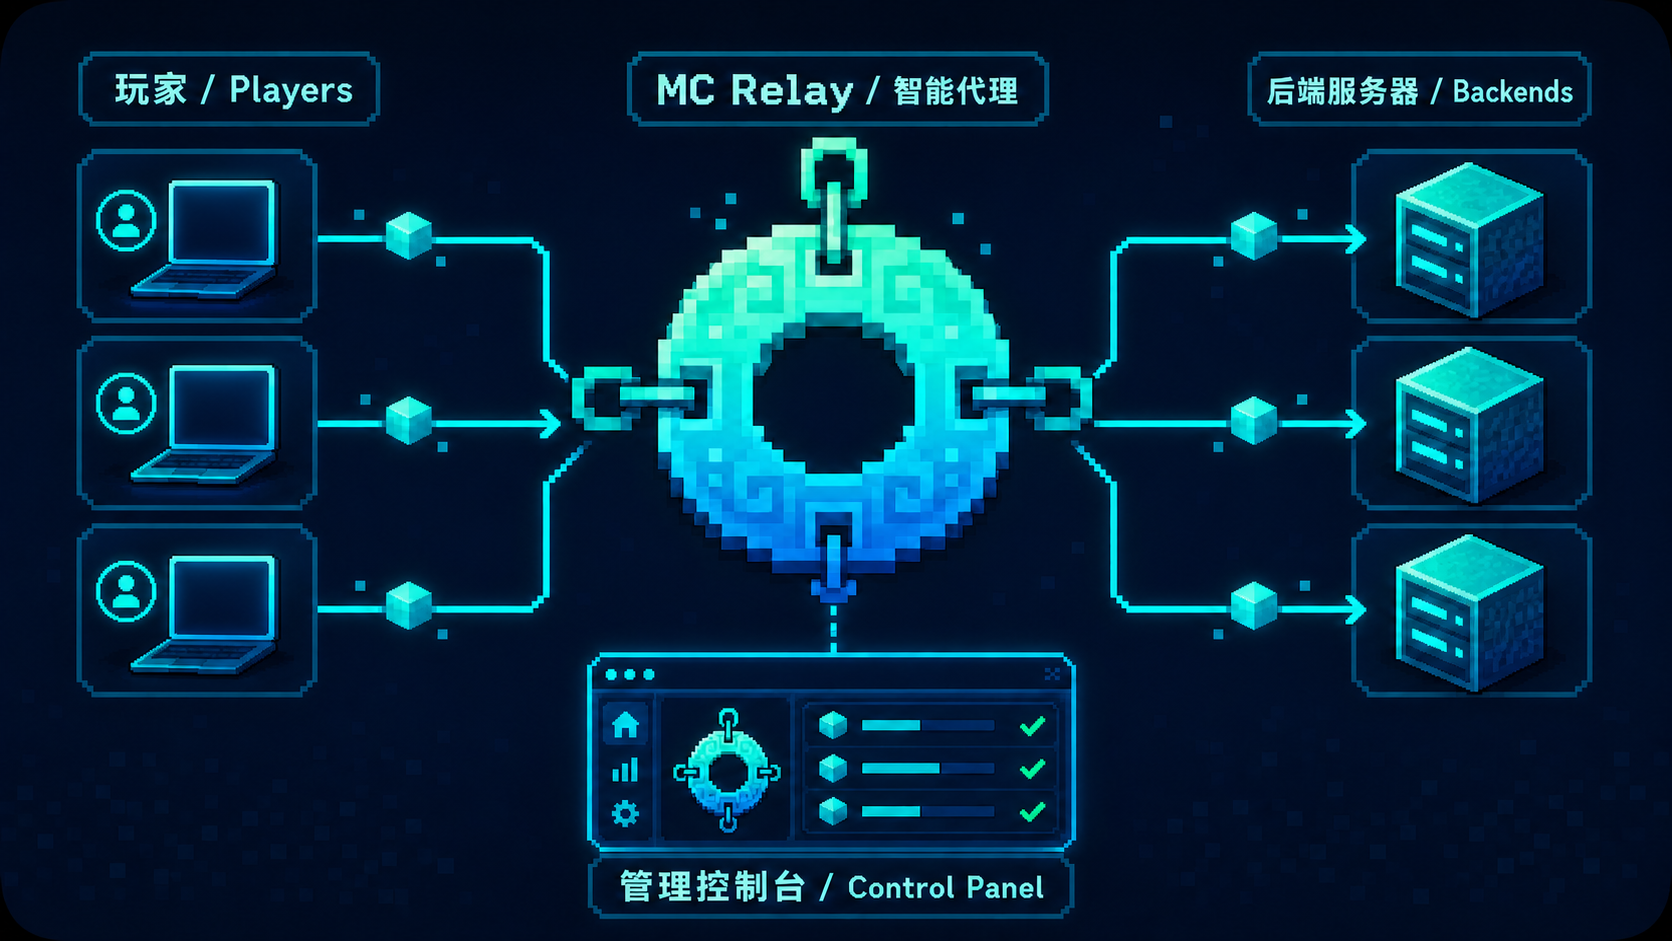
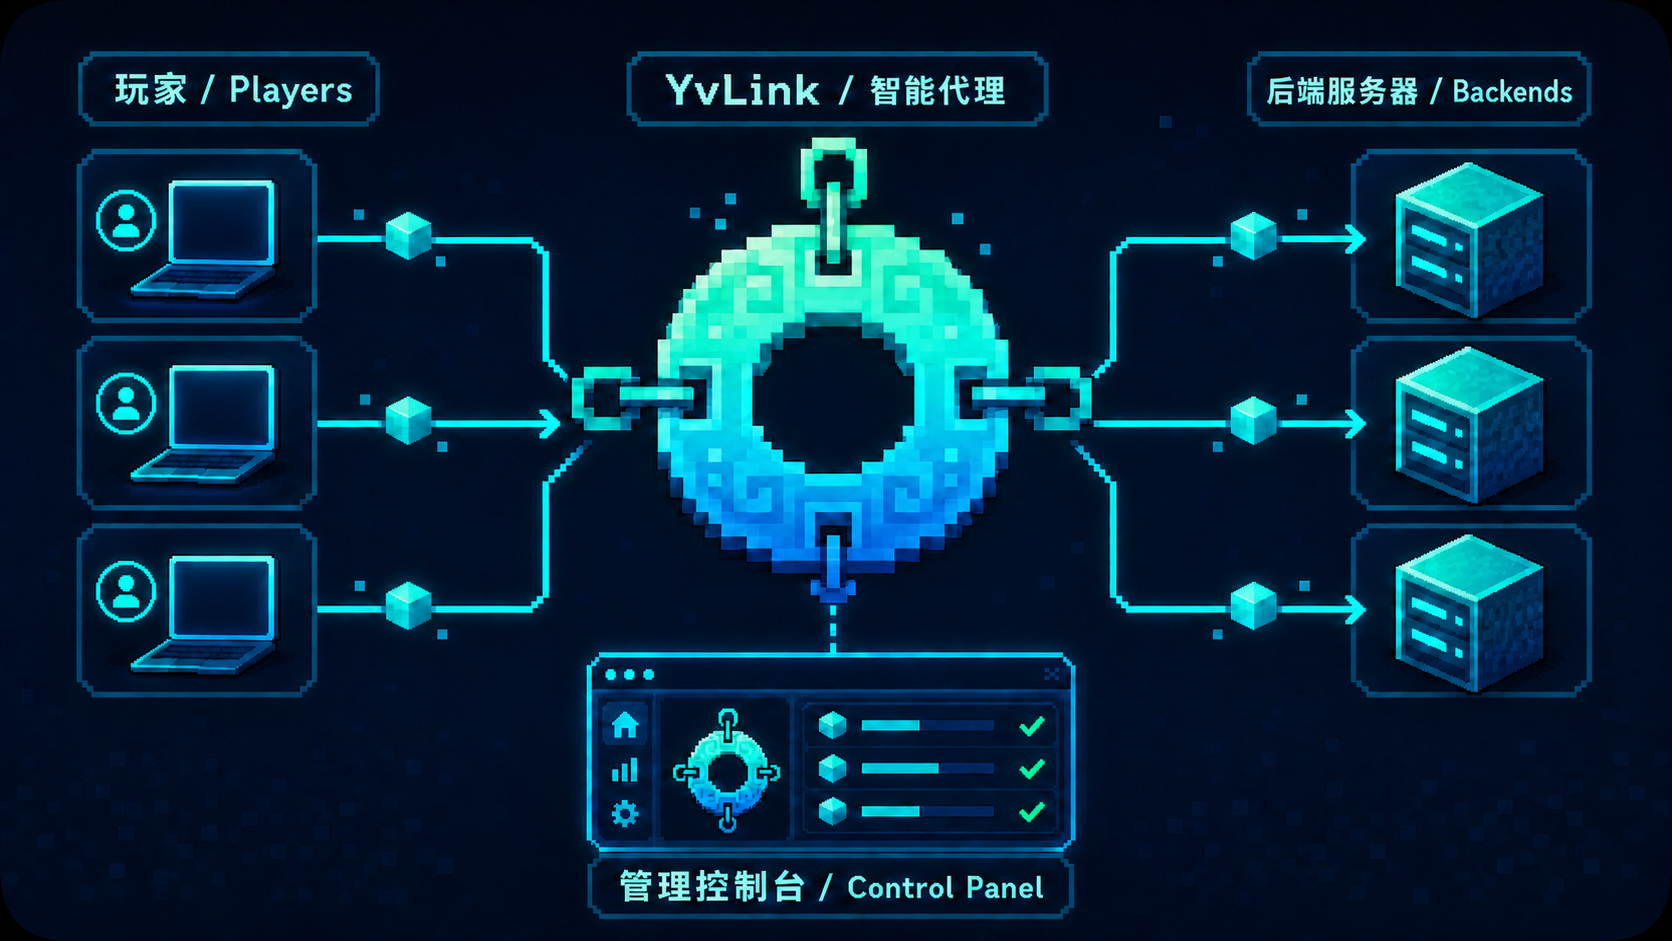
Add YvLink Pages and multi-platform builds

diff --git a/docs/api.html b/docs/api.html
@@ -4,7 +4,7 @@
   <meta charset="utf-8">
   <meta name="viewport" content="width=device-width,initial-scale=1">
   <meta name="color-scheme" content="dark">
-  <title>MC Relay API 文档</title>
+  <title>YvLink API 文档</title>
   <style>
     :root{--bg:#080b11;--panel:#101620;--line:#263142;--text:#edf3fa;--muted:#8b98aa;--green:#48d7a4;--blue:#6d8cff;--red:#f1727b}
     *{box-sizing:border-box}body{margin:0;background:var(--bg);color:var(--text);font:14px/1.65 system-ui,-apple-system,"Segoe UI",sans-serif}
@@ -24,7 +24,7 @@
 <body>
 <div class="layout">
   <aside class="side">
-    <div class="brand"><span class="mark">API</span><div><h1>MC Relay</h1><p>CONTROL INTERFACE</p></div></div>
+    <div class="brand"><span class="mark">API</span><div><h1>YvLink</h1><p>CONTROL INTERFACE</p></div></div>
     <div class="search"><svg viewBox="0 0 24 24"><circle cx="11" cy="11" r="7"/><path d="m16 16 5 5"/></svg><input id="search" type="search" placeholder="检索接口或字段"></div>
     <nav id="toc">
       <a href="#auth">认证说明</a>

diff --git a/README.md b/README.md
@@ -1,6 +1,6 @@
 <div align="center">
-  <img src="assets/icon.png" width="144" height="144" alt="MC Relay project icon / MC Relay 项目图标">
-  <h1>MC Relay · mc-proxy</h1>
+  <img src="assets/icon.png" width="144" height="144" alt="YvLink project icon / YvLink 项目图标">
+  <h1>YvLink · mc-proxy</h1>
   <p>
     Minecraft Java 协议感知转发器与 Web 管理控制台<br>
     Protocol-aware Minecraft Java proxy with a web control panel
@@ -8,13 +8,13 @@
   <p>
     <a href="#中文">中文</a> ·
     <a href="#english">English</a> ·
-    <a href="docs/api.html">API Docs</a> ·
+    <a href="https://baiyun1123.github.io/YvLink/">API Docs</a> ·
     <a href="MODDED_COMPATIBILITY.md">Modded Compatibility</a> ·
     <a href="CROSSPLAY.md">Crossplay</a>
   </p>
 </div>
 
-![MC Relay bilingual architecture: players connect through the proxy to multiple backends, managed by a web control panel / MC Relay 双语架构：玩家经智能代理连接多个后端，并由 Web 控制台管理](assets/readme-architecture-bilingual.png)
+![YvLink bilingual architecture: players connect through the proxy to multiple backends, managed by a web control panel / YvLink 双语架构：玩家经智能代理连接多个后端，并由 Web 控制台管理](assets/readme-architecture-bilingual.png)
 
 ---
 
@@ -24,7 +24,7 @@
 
 ## 项目简介
 
-MC Relay（程序包名 `mc-proxy`）是一款使用 Rust 与 Tokio 构建的高性能 Minecraft Java TCP 转发器。它会解析连接初期的 Handshake、Status 和 Login Start，根据客户端访问的域名选择后端，并在选路完成后透明转发后续游戏与模组协议。
+YvLink（程序包名 `mc-proxy`）是一款使用 Rust 与 Tokio 构建的高性能 Minecraft Java TCP 转发器。它会解析连接初期的 Handshake、Status 和 Login Start，根据客户端访问的域名选择后端，并在选路完成后透明转发后续游戏与模组协议。
 
 项目同时提供内置 Web 管理控制台，可在线管理路由、后端池、状态响应、白名单、健康检查和跨平台互通配置，无需手工修改 TOML 后重启服务。
 
@@ -51,7 +51,7 @@ MC Relay（程序包名 `mc-proxy`）是一款使用 Rust 与 Tokio 构建的高
 Java 客户端
     │  TCP :25565（Handshake 中携带访问域名）
     ▼
-MC Relay
+YvLink
     ├─ 按规则顺序匹配 Host
     ├─ 按策略选择健康后端
     ├─ 可处理 Status / 白名单
@@ -255,6 +255,7 @@ max = 100
 - [`deploy/nginx-mc.lic6.top.conf`](deploy/nginx-mc.lic6.top.conf)：Nginx 反向代理示例。
 - [`deploy/nginx-rate-limit.conf`](deploy/nginx-rate-limit.conf)：API 限速示例。
 - [`docs/api.html`](docs/api.html)：响应式、可搜索的 API 文档。
+- <https://baiyun1123.github.io/YvLink/>：由 GitHub Actions 自动部署的在线 API 文档。
 
 公开演示管理地址：<https://mc.lic6.top>
 
@@ -323,7 +324,7 @@ curl -fsS http://127.0.0.1:18080/healthz
 - 白名单只是后端认证前的快速筛选，不能代替 Minecraft 在线模式身份认证。
 - PROXY Protocol 只传递源/目标地址，不转换 Java 协议版本，也不代替 Velocity/Bungee 转发协议。
 - Minecraft Status 健康检查只证明列表协议可用，不代表玩家可以完成认证、模组协商或进入游戏。
-- Bedrock 客户端需要外部 Geyser Standalone；MC Relay 本身不实现 UDP → Java 协议翻译。
+- Bedrock 客户端需要外部 Geyser Standalone；YvLink 本身不实现 UDP → Java 协议翻译。
 
 详细说明：
 
@@ -349,7 +350,7 @@ curl -fsS http://127.0.0.1:18080/healthz
 
 ## Overview
 
-MC Relay (package name: `mc-proxy`) is a high-performance Minecraft Java TCP forwarding proxy built with Rust and Tokio. It parses the initial Handshake, Status, and Login Start packets, selects a backend using the hostname requested by the client, and transparently relays subsequent game and mod-loader traffic.
+YvLink (package name: `mc-proxy`) is a high-performance Minecraft Java TCP forwarding proxy built with Rust and Tokio. It parses the initial Handshake, Status, and Login Start packets, selects a backend using the hostname requested by the client, and transparently relays subsequent game and mod-loader traffic.
 
 An embedded web control panel lets operators manage routes, backend pools, status responses, allowlists, health checks, and crossplay settings without manually editing TOML and restarting the service.
 
@@ -376,7 +377,7 @@ Current version: **v0.11.0**
 Java clients
     │  TCP :25565 (requested hostname in Handshake)
     ▼
-MC Relay
+YvLink
     ├─ matches Host rules in order
     ├─ selects a healthy backend
     ├─ optionally handles Status / allowlist
@@ -388,7 +389,7 @@ MC Relay
 Browser ── HTTP :18080 / HTTPS reverse proxy ── Web UI and management API
 ```
 
-Multiple domains can share the same listener. MC Relay reads the virtual host from the Minecraft Handshake, uses the first matching rule, and selects a node from that rule’s backend pool. If the preferred node cannot be reached, the remaining nodes are tried automatically.
+Multiple domains can share the same listener. YvLink reads the virtual host from the Minecraft Handshake, uses the first matching rule, and selects a node from that rule’s backend pool. If the preferred node cannot be reached, the remaining nodes are tried automatically.
 
 ## Requirements
 
@@ -580,6 +581,7 @@ Use Nginx to expose the control panel over HTTPS in production. Do not bind the 
 - [`deploy/nginx-mc.lic6.top.conf`](deploy/nginx-mc.lic6.top.conf): Nginx reverse-proxy example.
 - [`deploy/nginx-rate-limit.conf`](deploy/nginx-rate-limit.conf): API rate-limit example.
 - [`docs/api.html`](docs/api.html): responsive, searchable API documentation.
+- <https://baiyun1123.github.io/YvLink/>: online API documentation deployed automatically by GitHub Actions.
 
 Public management demo: <https://mc.lic6.top>
 
@@ -648,7 +650,7 @@ curl -fsS http://127.0.0.1:18080/healthz
 - The allowlist is only an early filter before backend authentication; it is not a substitute for Minecraft online-mode identity verification.
 - PROXY Protocol only carries source/destination addresses. It does not translate Java protocol versions or replace Velocity/Bungee forwarding.
 - A Minecraft Status health check proves only that the server-list protocol works. It does not prove successful authentication, mod negotiation, or gameplay.
-- Bedrock clients require an external Geyser Standalone instance; MC Relay itself does not translate UDP Bedrock traffic into Java protocol traffic.
+- Bedrock clients require an external Geyser Standalone instance; YvLink itself does not translate UDP Bedrock traffic into Java protocol traffic.
 
 Further reading:
 

diff --git a/code.md b/code.md
@@ -2,6 +2,60 @@
 
 ## 任务标题
 
+将文档品牌更正为 YvLink，并新增 GitHub Pages 与多平台构建工作流。
+
+## 完成时间
+
+2026-07-30 12:56（Asia/Shanghai）
+
+## 变更内容
+
+- 将中英双语 `README.md` 中错误的展示品牌 `MC Relay` 全部更正为 `YvLink`，保留二进制、Cargo 包和 systemd 技术标识 `mc-proxy`。
+- 使用内置图片编辑能力将 README 双语架构图中央标签精确改为“YvLink / 智能代理”，保持玩家、后端、控制台、布局和配色不变。
+- 将 `docs/api.html` 的浏览器标题和页面品牌更正为 YvLink，并同步设计系统文档的项目名。
+- 新增 `.github/workflows/pages.yml`：在 `main` 的 API 文档或图标变更时，把 `docs/api.html` 同时发布为 GitHub Pages 的 `/` 与 `/api.html`。
+- Pages 工作流使用最小权限 `contents: read`、`pages: write`、`id-token: write`，并通过 `github-pages` environment 部署。
+- 新增 `.github/workflows/build.yml`：在 push、PR、版本标签和手动触发时并行构建 Ubuntu 22.04 x86_64、Ubuntu 24.04 x86_64 与 Windows Server 2022 x86_64。
+- 三个平台均安装 Rust 1.85.0，执行锁定依赖测试与 release 构建；Linux 输出 `.tar.gz`，Windows 输出 `.zip`，Actions 构建产物保留 14 天。
+- README 中英文部分均增加在线 API 文档地址 `https://baiyun1123.github.io/YvLink/`。
+- 无新增或变更后端 HTTP API，只变更现有 API 文档的品牌与部署方式；无数据库结构变更，无需 SQL。
+
+## 验证结果
+
+- README、API 文档和设计系统主文档中已无 `MC Relay` 品牌残留。
+- 最终架构图确认为有效的 1672×941、8-bit RGB PNG，图片中文字为“YvLink / 智能代理”。
+- `cargo fmt --check`、Cargo 元数据解析和 `node --check web/app.js` 通过。
+- 本机未安装 PyYAML、Ruby YAML 或 Perl YAML 模块，因此工作流语法将在推送后由 GitHub Actions 进行最终解析和运行验证。
+- GitHub Pages 当前尚未启用；工作流推送后需将仓库 Pages 构建源设置为 GitHub Actions。
+
+## 关键决策
+
+- 品牌名与技术标识分离：用户可见名称使用 YvLink，现有可执行文件、配置路径、环境变量和服务名继续使用 `mc-proxy`，避免破坏部署兼容性。
+- API 文档不复制维护第二份源码；Pages 构建阶段将同一个 `docs/api.html` 复制为站点首页和 `/api.html`，防止内容漂移。
+- 采用 GitHub 官方 Pages Actions 和构建产物 Actions；构建矩阵使用 GitHub 托管 runner，不需要仓库密钥。
+- 首轮跨平台范围选择两个常用 Ubuntu LTS runner 与 Windows Server 2022；不加入未经交叉编译验证的 ARM 或 musl 目标。
+
+## 风险与待办
+
+- 推送后需要检查两个工作流的首次运行结果；若 Pages 尚未启用，需通过仓库设置或 GitHub API 将构建来源切换为 GitHub Actions。
+- Windows 包仅能在 GitHub Windows runner 完成真实编译验证，本机 Android/Termux 无法替代该环境。
+- Actions 构建产物默认保留 14 天；若需要永久下载，应在后续版本标签流程中自动创建 GitHub Release 并上传产物。
+- 历史 `dist/` 发布包保留其当时的文档和二进制内容，没有回写旧版本品牌。
+
+## 关联文件
+
+- `.github/workflows/pages.yml`
+- `.github/workflows/build.yml`
+- `README.md`
+- `docs/api.html`
+- `design-system/mc-relay-control/MASTER.md`
+- `assets/readme-architecture-bilingual.png`
+- `code.md`
+
+---
+
+## 任务标题
+
 重写中英双语 README，并生成匹配项目图标风格的双语架构配图。
 
 ## 完成时间
@@ -16,7 +70,7 @@
 - 启动说明同时覆盖 release 二进制与 `cargo run`，明确 `MC_PROXY_ADMIN_TOKEN` 至少 32 个字符，并给出安全随机令牌生成方法。
 - 生产说明关联仓库现有 Nginx、API 文档、systemd、Ubuntu 24.04、Geyser 和真实模组矩阵资料，没有虚构新的部署文件或能力。
 - 使用内置图片生成能力，以现有项目图标为视觉参考生成 1672×941 的中英双语架构图 `assets/readme-architecture-bilingual.png`。
-- 配图准确包含“玩家 / Players”“MC Relay / 智能代理”“后端服务器 / Backends”“管理控制台 / Control Panel”，并在第二轮将类似游戏角色的人物替换为原创抽象终端节点。
+- 配图最初准确包含“玩家 / Players”“MC Relay / 智能代理”“后端服务器 / Backends”“管理控制台 / Control Panel”，并在第二轮将类似游戏角色的人物替换为原创抽象终端节点；品牌随后按用户要求更正为 YvLink。
 - 无新增或变更后端 HTTP API，`docs/api.html` 无需修改；无数据库结构变更，无需 SQL。
 
 ## 验证结果

diff --git a/design-system/mc-relay-control/MASTER.md b/design-system/mc-relay-control/MASTER.md
@@ -6,7 +6,7 @@
 
 ---
 
-**Project:** MC Relay Control
+**Project:** YvLink Control
 **Generated:** 2026-07-30 00:23:29
 **Category:** Smart Home/IoT Dashboard
 **Design Dials:** Variance 6/10 (Balanced / Modern) | Motion 3/10 (Subtle) | Density 8/10 (Dense / Dashboard)
